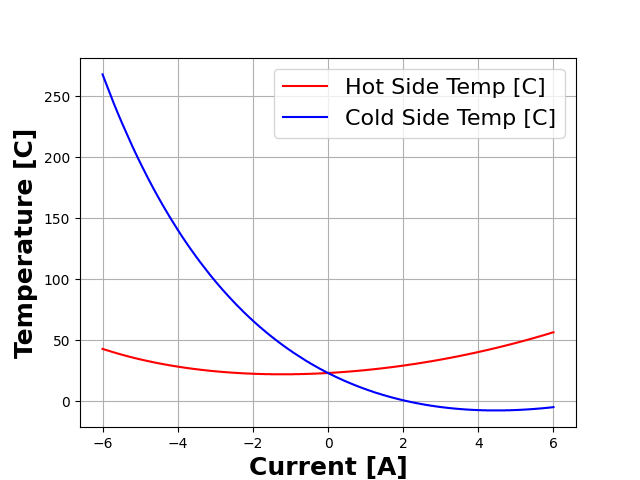
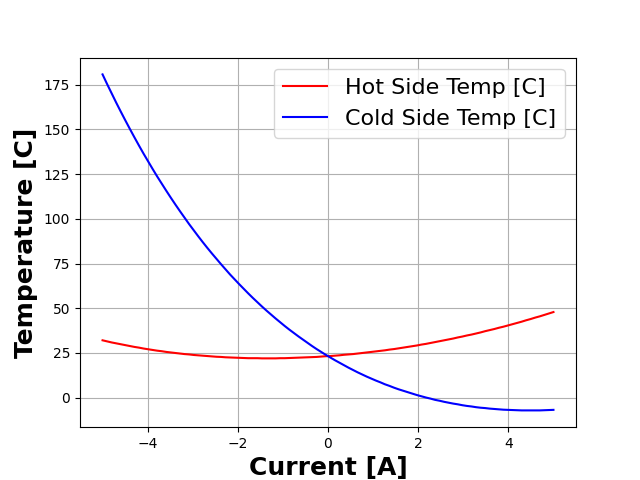
Modified system characterization functionality

diff --git a/OpenPelt/OpenPelt.py b/OpenPelt/OpenPelt.py
@@ -11,7 +11,7 @@ import cffi
 from enum import Enum
 import matplotlib.pyplot as plt
 from PySpice.Spice.Netlist import Circuit
-from PySpice.Unit import u_V, u_Ohm, u_F, u_s
+from PySpice.Unit import u_V, u_A, u_Ohm, u_F, u_s
 import PySpice.Spice.NgSpice.Shared
 
 try:
@@ -324,8 +324,8 @@ class tec_plant(Circuit):
             ivar_vals = self.ncs.get_t()
         assert len(ivar_vals) == len(self.ncs.get_th_actual())
         assert len(ivar_vals) == len(self.ncs.get_tc_actual())
-        assert len(ivar_vals) == len(self.ncs.get_ref_arr())
         if ivar == IndVar.TIME:
+            assert len(ivar_vals) == len(self.ncs.get_ref_arr())
             if self.sig_type == Signal.VOLTAGE:
                 assert len(ivar_vals) == len(self.ncs.get_v_arr())
             elif self.sig_type == Signal.CURRENT:
@@ -466,13 +466,36 @@ class tec_plant(Circuit):
         Acts as a DC sweep function. May contain errors since behavior is not
         validated.
         """
+        num_incr = (val_max - val_min) / step_size
+        assert float(int(num_incr)) == num_incr
+        num_incr = int(num_incr)
         sim = self.simulator(simulator='ngspice-shared',
                              ngspice_shared=self.ncs)
         sim.options(reltol=5e-6)
+        tmp_controller_f = self.controller_f
+        th = []
+        tc = []
         if self.sig_type == Signal.VOLTAGE:
-            anls = sim.dc(Vinput_src=slice(val_min, val_max, step_size))
+            v_range = np.linspace(val_min, val_max, num_incr)
+            for _v in v_range:
+                self.set_controller_f(lambda _t, _dict : _v@u_V)
+                tmp_v, tmp_th, tmp_tc = self.run_sim()
+                th.append(tmp_th)
+                tc.append(tmp_tc)
+            self.ncs.v = v_range
         else:
-            anls = sim.dc(Iinput_src=slice(val_min, val_max, step_size))
+            i_range = np.linspace(val_min, val_max, num_incr)
+            for _i in i_range:
+                self.set_controller_f(lambda _t, _dict : _i@u_A)
+                tmp_v, tmp_th, tmp_tc = self.run_sim()
+                th.append(tmp_th)
+                tc.append(tmp_tc)
+            self.ncs.i = i_range
+        self.ncs.th_actual = th
+        self.ncs.tc_actual = tc
+        assert len(th) == len(self.get_th_actual())
+        assert len(tc) == len(self.get_tc_actual())
+        self.set_controller_f(tmp_controller_f)
 
     def is_steady_state(self):
         """

diff --git a/tests/op_point_voltage.py b/tests/op_point_voltage.py
@@ -16,8 +16,8 @@ if __name__ == "__main__":
         os.makedirs('./figs/')
     pC = OpenPelt.tec_plant("Detector",
                               lambda : 0.00@u_V,
-                              OpenPelt.Signal.CURRENT)
-    pC.characterize_plant(-6.00@u_V, 16.4@u_V, 0.01@u_V)
+                              OpenPelt.Signal.VOLTAGE)
+    pC.characterize_plant(-5.00, 15.0, 0.1)
     pC.plot_th_tc(OpenPelt.IndVar.VOLTAGE)
     plt.savefig('./figs/{}'.format(TEST_NAME))
     data = numpy.array([pC.get_v_arr(), pC.get_th_actual()])

diff --git a/tests/op_point_current.py b/tests/op_point_current.py
@@ -16,7 +16,7 @@ if __name__ == "__main__":
     pC = OpenPelt.tec_plant("Detector",
                             lambda: 2.1@u_A,
                             OpenPelt.Signal.CURRENT)
-    pC.characterize_plant(-6.00@u_A, 6.00@u_A, 0.01@u_A)
+    pC.characterize_plant(-5.00, 5.00, 0.1)
     pC.plot_th_tc(OpenPelt.IndVar.CURRENT)
     plt.savefig('./figs/{}'.format(TEST_NAME))
     data = numpy.array([pC.get_i_arr(), pC.get_th_actual()])
